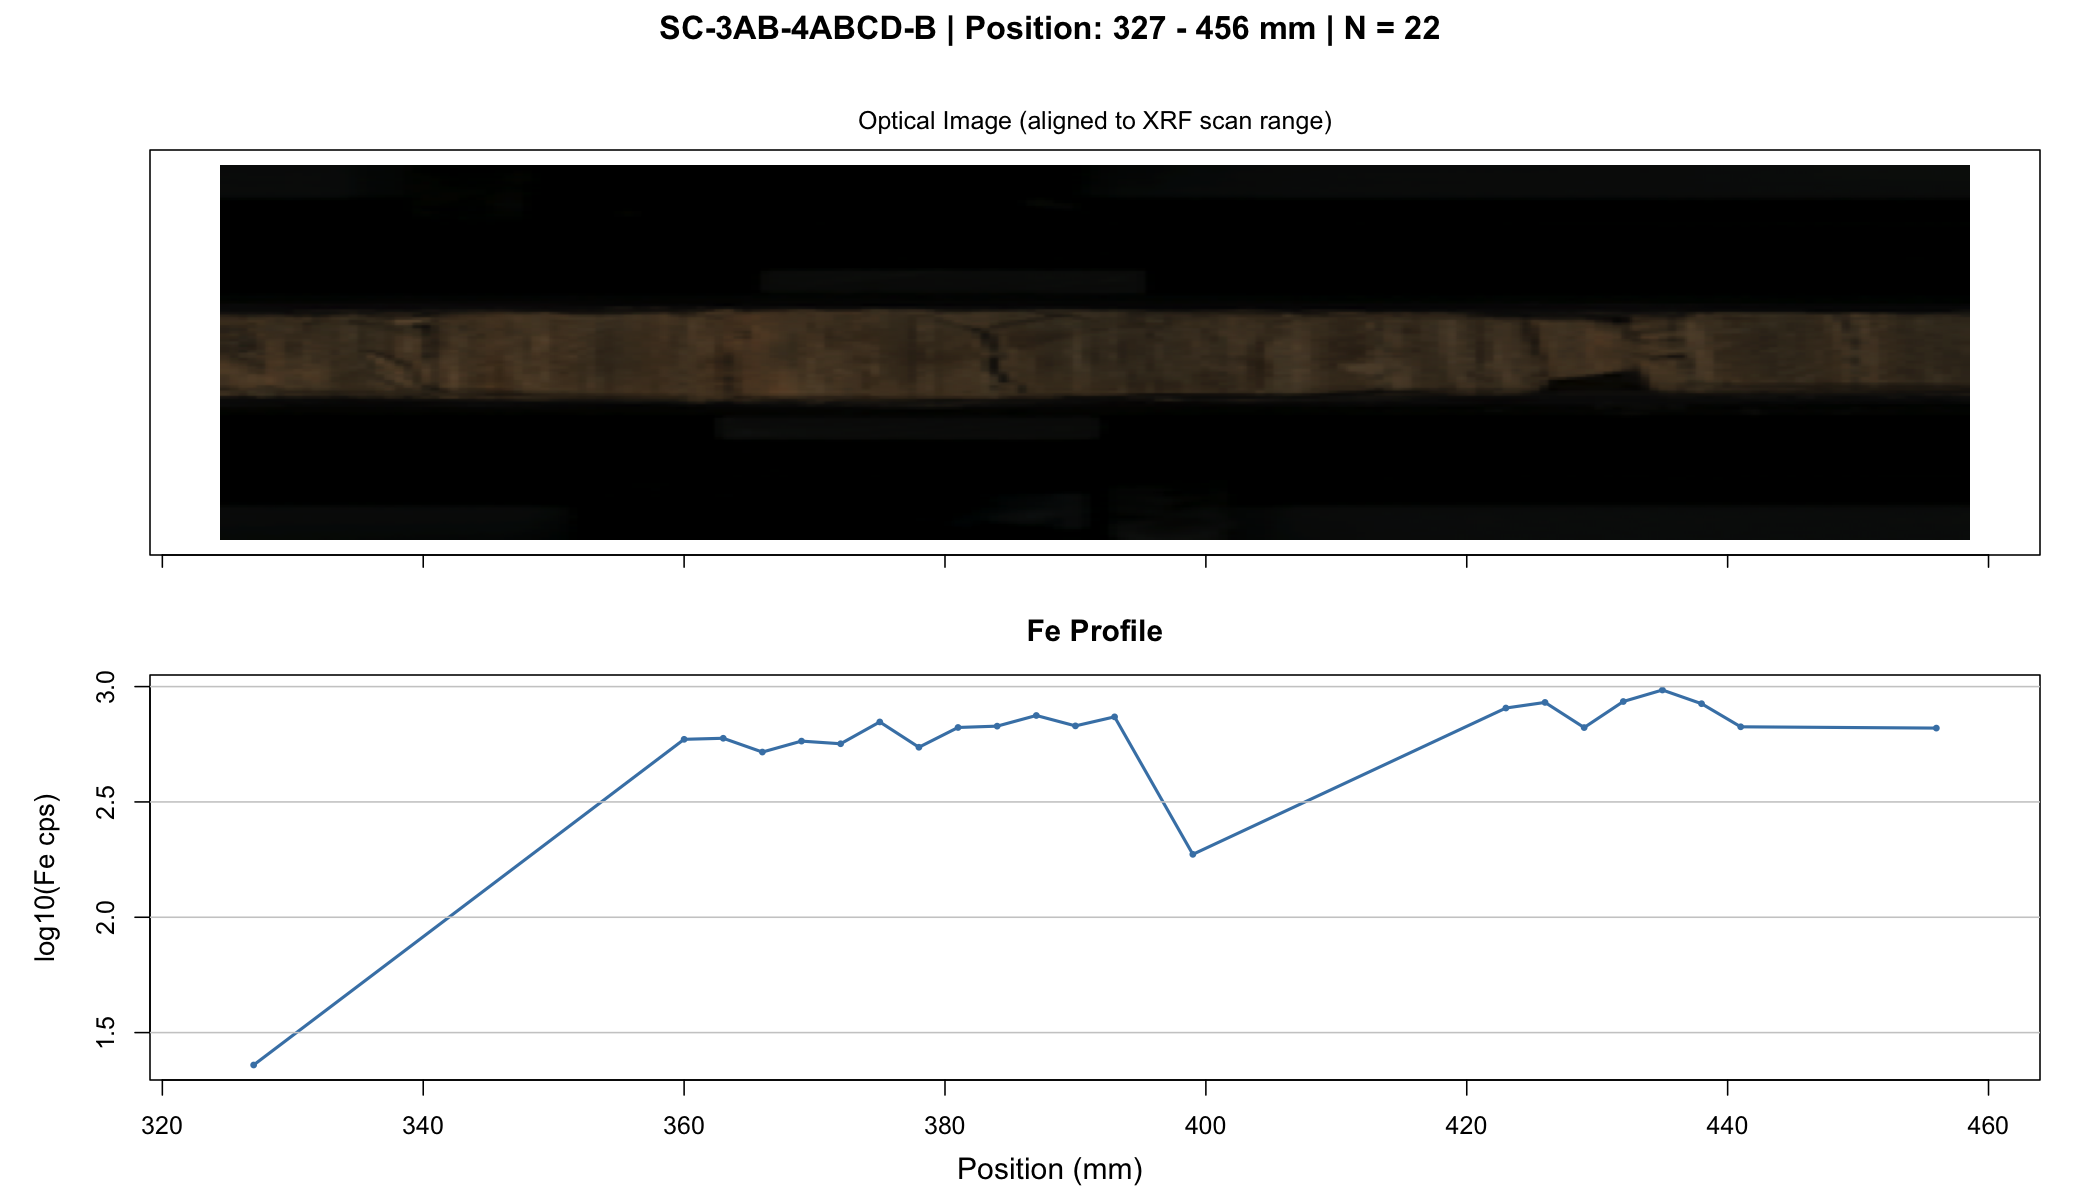
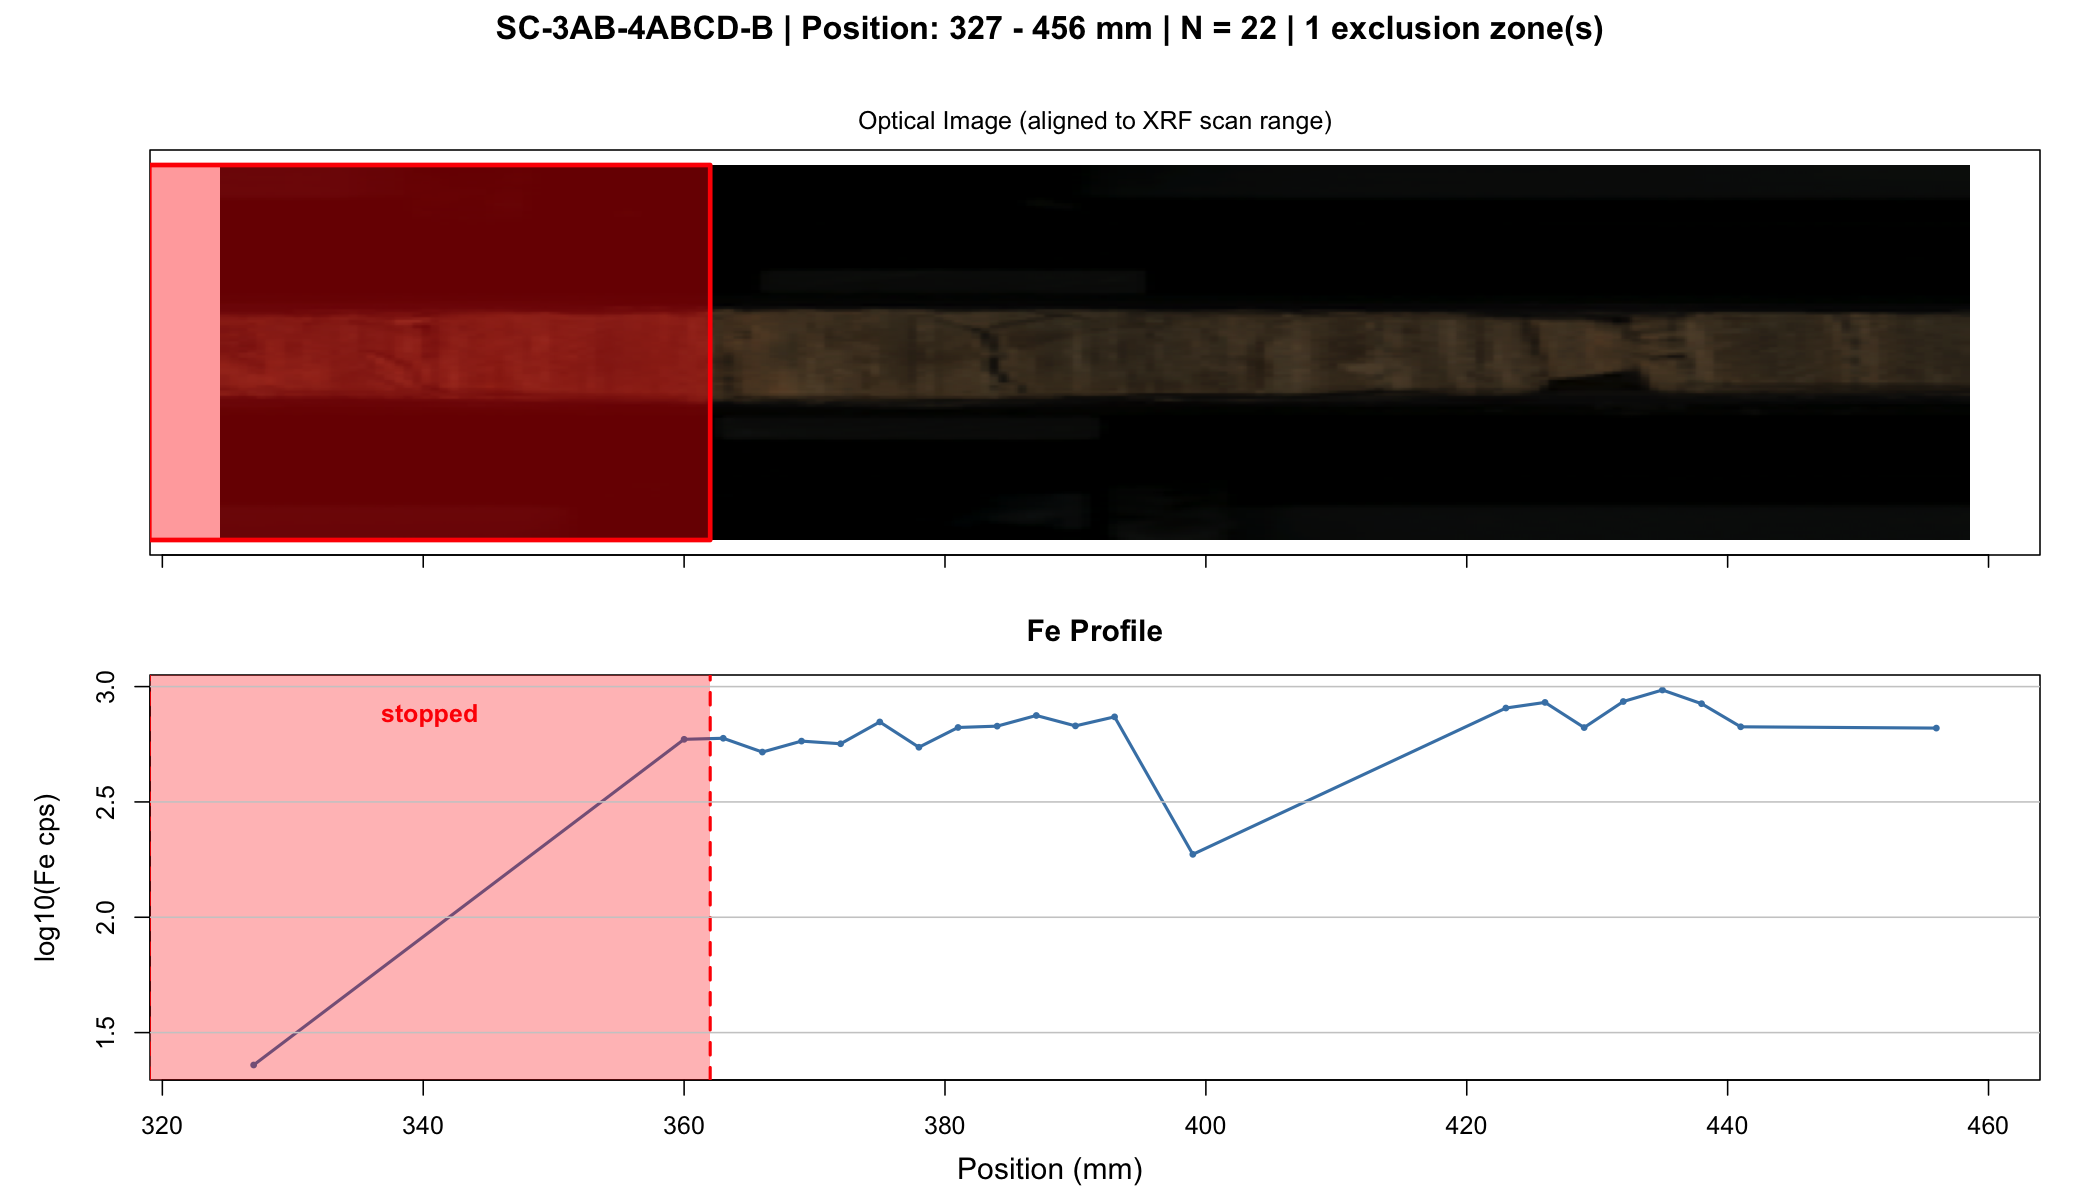
Complete QC review with 29 exclusion zones
- 392 points excluded (foam fills and stopped scans)
- 1500 QC-pass measurements remaining
- 17 sections with exclusions across TAM and SC cores
- Regenerated all appendix figures and analysis outputs
- Fixed app auto-save functionality

🤖 Generated with [Claude Code](https://claude.com/claude-code)

Changed region(s): [[0.0619, 0.555, 0.3405, 0.925], [0.0619, 0.1233, 0.3405, 0.4625], [0.2167, 0.0, 0.7738, 0.0308]]

diff --git a/output/figures/appendix/exclusion_table.tex b/output/figures/appendix/exclusion_table.tex
@@ -12,31 +12,31 @@ Section & Series & N & Position (mm) & Excl. & Excluded Ranges \\
 \endhead
 \bottomrule
 \endfoot
-SC-1ABC-2-3C-A-RUN1 & SC & 92 & 34-364 & 0 & None \\
-SC-1ABC-2-3C-RUN2-B & SC & 46 & 519-753 & 0 & None \\
-SC-1ABC-2-3C-RUN2-C & SC & 83 & 938-1223 & 0 & None \\
-SC-3AB-4ABCD-A & SC & 61 & 37-253 & 0 & None \\
-SC-3AB-4ABCD-B & SC & 22 & 327-456 & 0 & None \\
+SC-1ABC-2-3C-A-RUN1 & SC & 92 & 34-364 & 1 & 14-66 \\
+SC-1ABC-2-3C-RUN2-B & SC & 46 & 519-753 & 1 & 505-544 \\
+SC-1ABC-2-3C-RUN2-C & SC & 83 & 938-1223 & 2 & 962-1024, 1071-1107 \\
+SC-3AB-4ABCD-A & SC & 61 & 37-253 & 2 & 24-51, 247-266 \\
+SC-3AB-4ABCD-B & SC & 22 & 327-456 & 1 & 319-362 \\
 SC-3AB-4ABCD-C & SC & 38 & 538-661 & 0 & None \\
 SC-3AB-4ABCD-D & SC & 74 & 739-885 & 0 & None \\
-SC-3AB-4ABCD-RUN2-D & SC & 74 & 739-885 & 0 & None \\
+SC-3AB-4ABCD-RUN2-D & SC & 74 & 739-885 & 2 & 730-751, 872-894 \\
 SC-3AB-4ABCD-RUN2-E & SC & 106 & 919-1143 & 2 & 905-947, 1084-1157 \\
 SC-3AB-4ABCD-RUN2-F & SC & 96 & 1172-1374 & 0 & None \\
-SC-5-6-7ABC-A & SC & 43 & 24-210 & 0 & None \\
-SC-5-6-7ABC-B & SC & 173 & 284-692 & 0 & None \\
+SC-5-6-7ABC-A & SC & 43 & 24-210 & 3 & 13-38, 78-95, 134-164 \\
+SC-5-6-7ABC-B & SC & 173 & 284-692 & 2 & 276-308, 404-458 \\
 SC-5-6-7ABC-C & SC & 28 & 776-875 & 0 & None \\
-SC-5-6-7ABC-D & SC & 22 & 910-1015 & 0 & None \\
+SC-5-6-7ABC-D & SC & 22 & 910-1015 & 1 & 908-965 \\
 SC-5-6-7ABC-E & SC & 18 & 1053-1143 & 0 & None \\
 SC8-A & SC & 73 & 177-423 & 0 & None \\
-TAM-1-2-3B-A & TAM & 153 & 123-660 & 0 & None \\
+TAM-1-2-3B-A & TAM & 153 & 123-660 & 2 & 112-241, 537-671 \\
 TAM-1-2-3B-B & TAM & 87 & 901-1213 & 0 & None \\
-TAM-1-2-3B-C & TAM & 25 & 1322-1406 & 1 & 1317-1411 \\
-TAM-3A-4-5CDE-A & TAM & 95 & 25-361 & 0 & None \\
+TAM-1-2-3B-C & TAM & 25 & 1322-1406 & 1 & 1322-1406 \\
+TAM-3A-4-5CDE-A & TAM & 95 & 25-361 & 4 & 19-36, 99-148, 198-255, 308-366 \\
 TAM-3A-4-5CDE-B & TAM & 162 & 448-1012 & 0 & None \\
 TAM-3A-4-5CDE-RUN2-C & TAM & 14 & 1175-1214 & 0 & None \\
 TAM-3A-4-5CDE-RUN2-D & TAM & 2 & 1312-1315 & 1 & 1312-1315 \\
 TAM-3A-4-5CDE-RUN2-E & TAM & 16 & 1384-1435 & 0 & None \\
-TAM-5AB-6-7-A & TAM & 28 & 38-152 & 0 & None \\
-TAM-5AB-6-7-B-RUN2 & TAM & 111 & 210-654 & 0 & None \\
+TAM-5AB-6-7-A & TAM & 28 & 38-152 & 1 & 35-48 \\
+TAM-5AB-6-7-B-RUN2 & TAM & 111 & 210-654 & 1 & 527-572 \\
 TAM-5AB-6-7-C & TAM & 238 & 692-1170 & 2 & 1018-1064, 1098-1163 \\
 \end{longtable}
